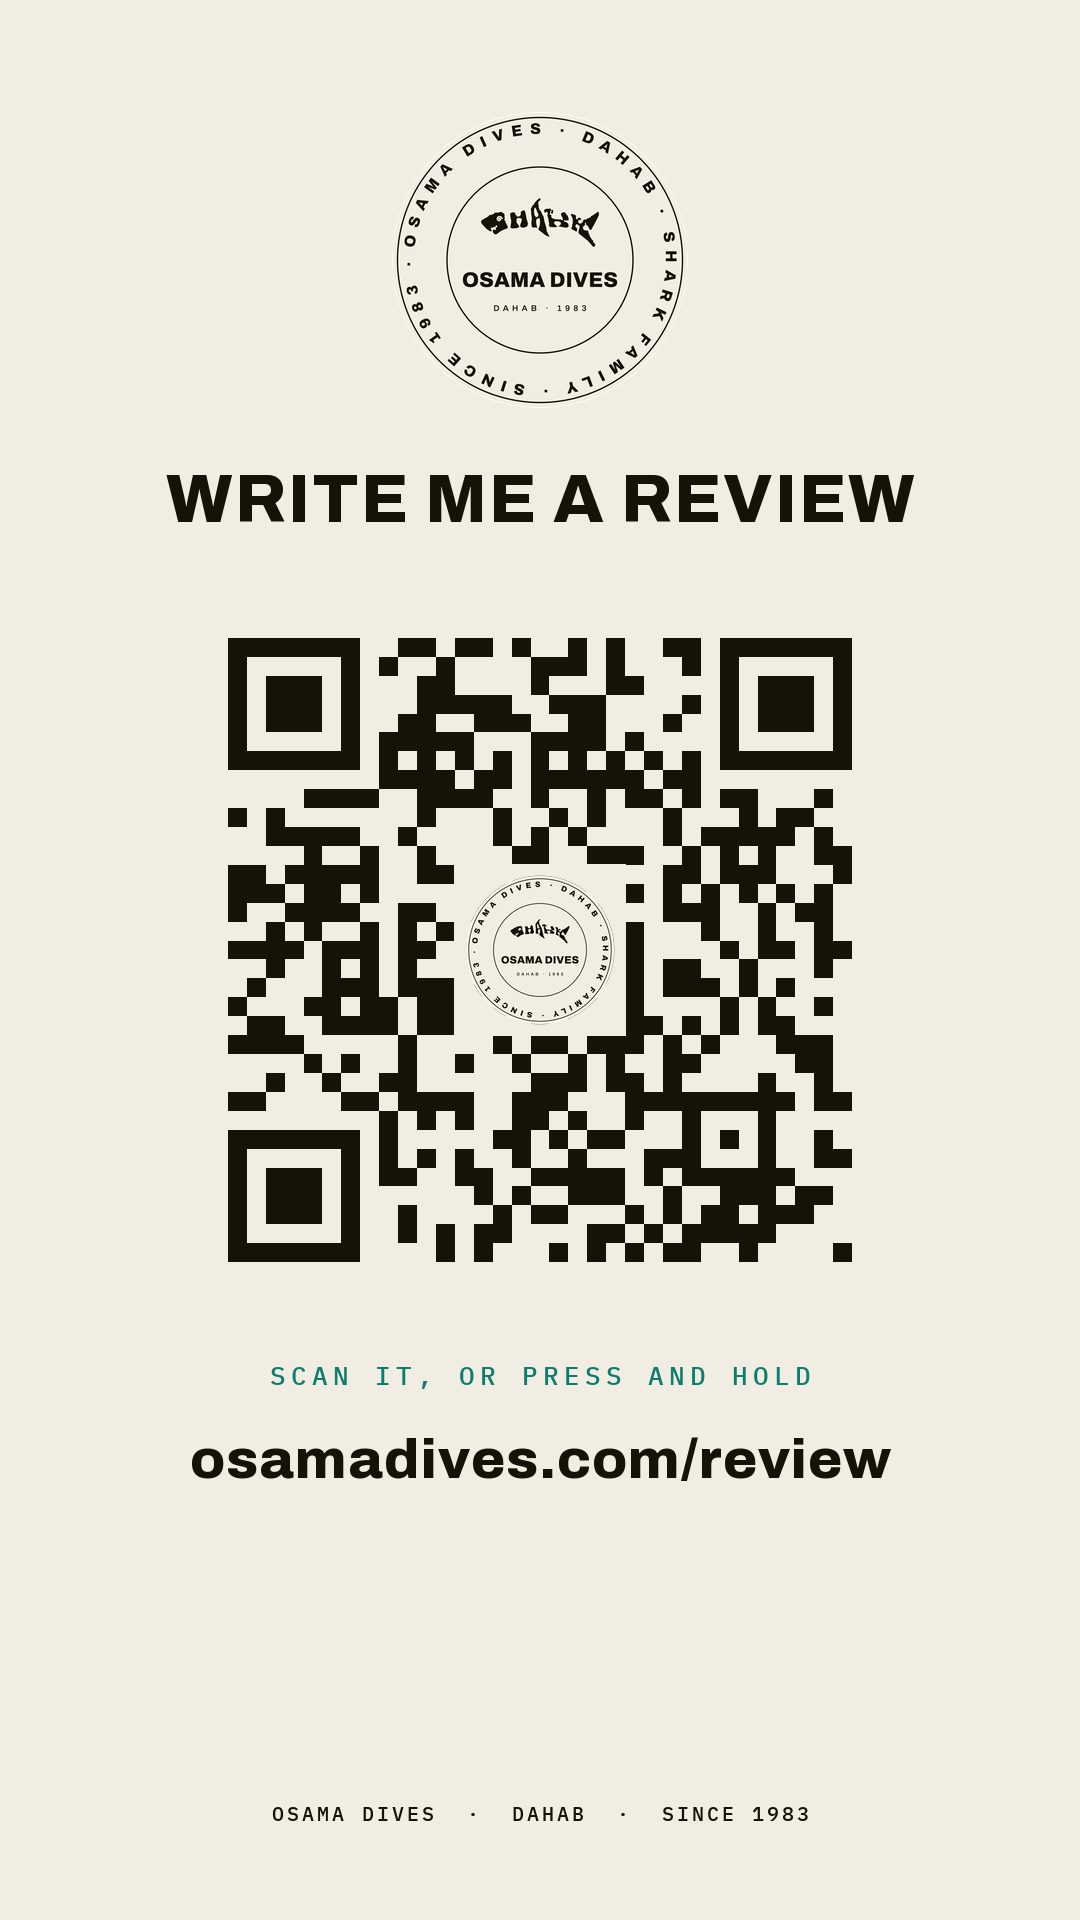
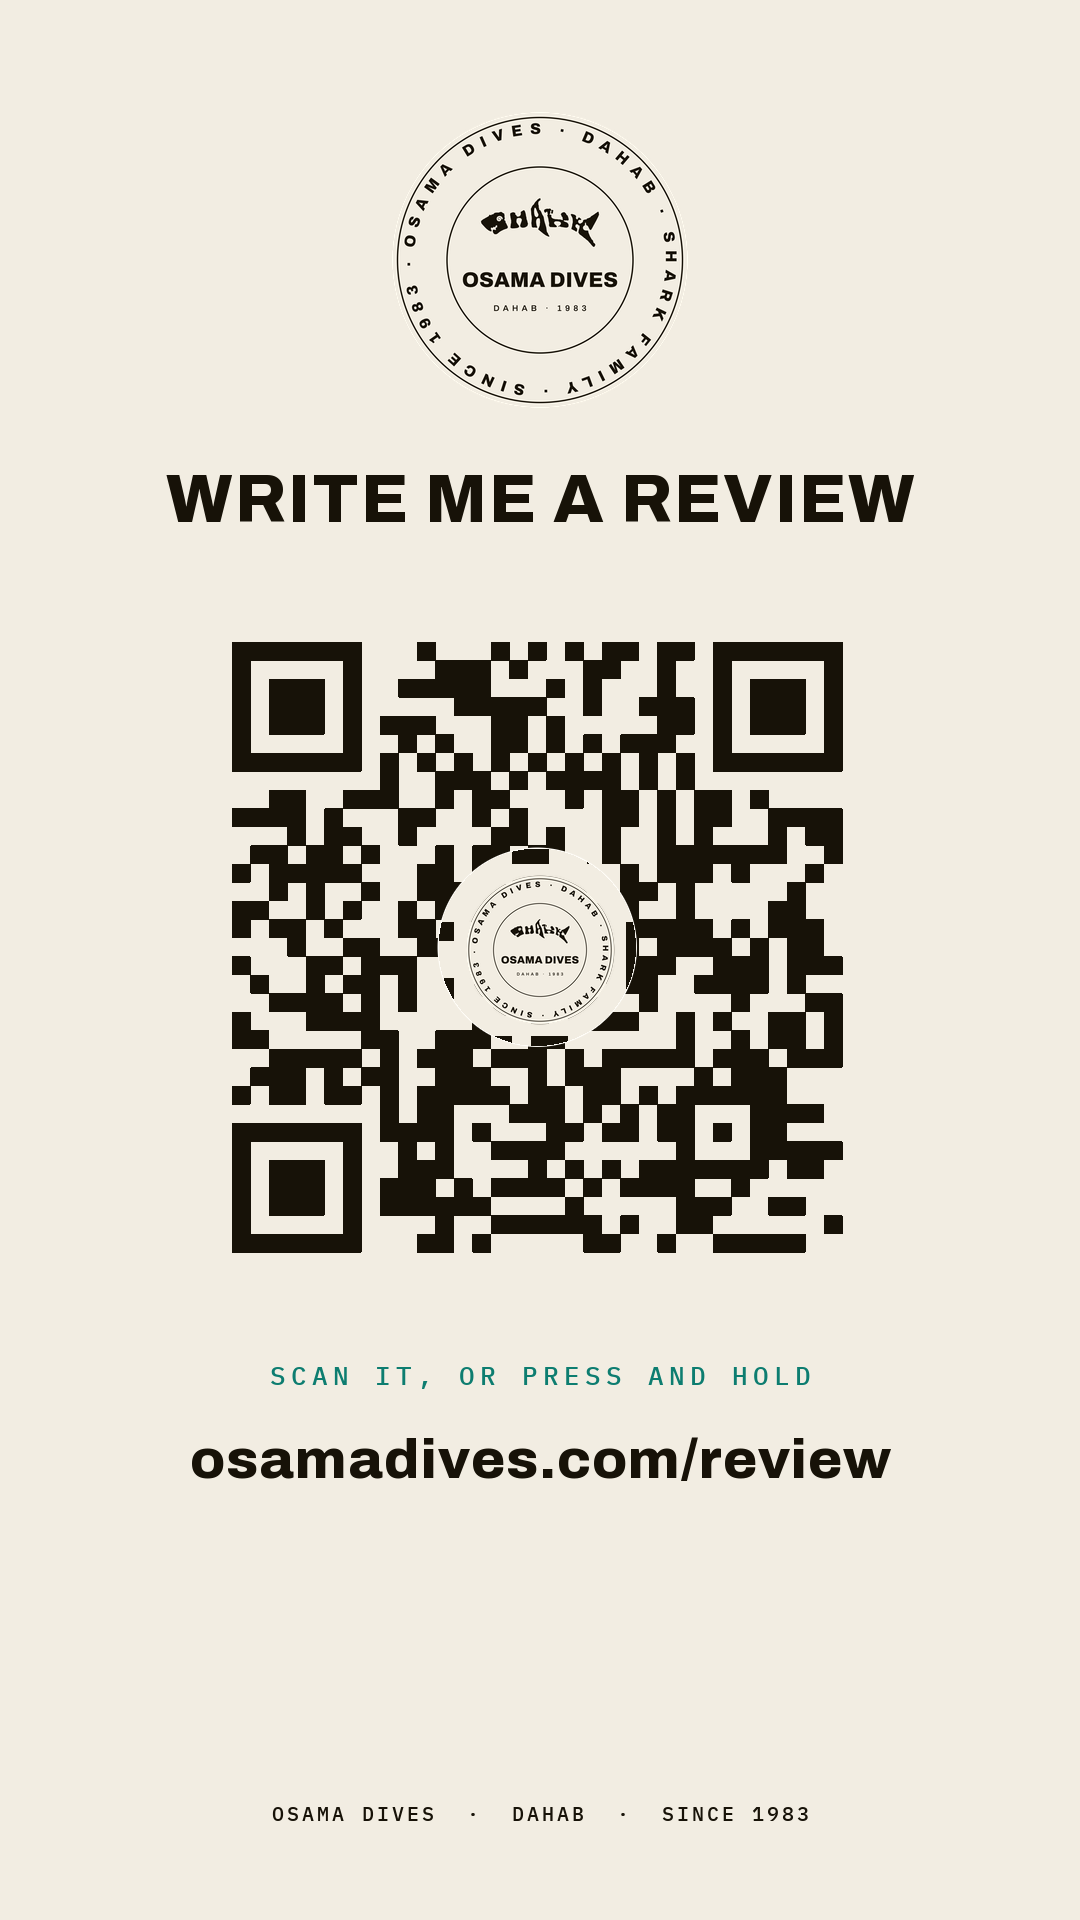
The card's code is counted: every scan lands on /qr, is recorded, then goes on to the form (#42)
The code on Osama's card pointed straight at the review page, so nobody could tell
whether it was ever scanned. It now points at /qr, which writes one row per scan
(time, source, device, hashed address) and sends the person on to the form with
utm tags, so Vercel Analytics sees them too. Link checkers (HEAD) and chat preview
bots are sent on without being counted.

The private moderation page says how many times the card has been scanned, this
week, in the last day, and when the last one was, naming the sources once there is
more than one (card, taps on the screen, stickers).

The code is regenerated for the tracked address and repainted inside the three
finished card pictures, module by module, keeping the stamp disc. All three
decode to the new address, also at a third of their size. The card's service
worker cache moves to v6 so installed cards pick up the new picture.

Changed region(s): [[0.2139, 0.3125, 0.7944, 0.6562]]

diff --git a/src/app/card/qr.ts b/src/app/card/qr.ts
@@ -1,5 +1,6 @@
-// Generated from the live review address. The code is inline SVG so Osama's card
-// still draws when he is on a boat with no signal.
-export const QR_URL = "https://www.osamadives.com/review";
+// Generated from the tracked address: every scan is counted at /qr, then sent on to the
+// review form. The code is inline SVG so Osama's card still draws when he is on a boat with
+// no signal. Regenerate with the script in the launch pack if the address ever changes.
+export const QR_URL = "https://www.osamadives.com/qr";
 export const QR_MODULES = 37;
-export const QR_PATH = "M2 2h7v1h-7zM11 2h2v1h-2zM14 2h2v1h-2zM17 2h1v1h-1zM20 2h1v1h-1zM22 2h1v1h-1zM25 2h2v1h-2zM28 2h7v1h-7zM2 3h1v1h-1zM8 3h1v1h-1zM10 3h1v1h-1zM13 3h1v1h-1zM18 3h3v1h-3zM22 3h1v1h-1zM26 3h1v1h-1zM28 3h1v1h-1zM34 3h1v1h-1zM2 4h1v1h-1zM4 4h3v1h-3zM8 4h1v1h-1zM12 4h2v1h-2zM18 4h1v1h-1zM22 4h2v1h-2zM28 4h1v1h-1zM30 4h3v1h-3zM34 4h1v1h-1zM2 5h1v1h-1zM4 5h3v1h-3zM8 5h1v1h-1zM12 5h5v1h-5zM19 5h3v1h-3zM26 5h1v1h-1zM28 5h1v1h-1zM30 5h3v1h-3zM34 5h1v1h-1zM2 6h1v1h-1zM4 6h3v1h-3zM8 6h1v1h-1zM11 6h2v1h-2zM15 6h3v1h-3zM20 6h2v1h-2zM25 6h1v1h-1zM28 6h1v1h-1zM30 6h3v1h-3zM34 6h1v1h-1zM2 7h1v1h-1zM8 7h1v1h-1zM10 7h5v1h-5zM18 7h4v1h-4zM23 7h1v1h-1zM28 7h1v1h-1zM34 7h1v1h-1zM2 8h7v1h-7zM10 8h1v1h-1zM12 8h1v1h-1zM14 8h1v1h-1zM16 8h1v1h-1zM18 8h1v1h-1zM20 8h1v1h-1zM22 8h1v1h-1zM24 8h1v1h-1zM26 8h1v1h-1zM28 8h7v1h-7zM10 9h4v1h-4zM15 9h2v1h-2zM18 9h6v1h-6zM25 9h2v1h-2zM6 10h4v1h-4zM12 10h4v1h-4zM18 10h1v1h-1zM21 10h1v1h-1zM23 10h2v1h-2zM26 10h1v1h-1zM28 10h2v1h-2zM33 10h1v1h-1zM2 11h1v1h-1zM4 11h1v1h-1zM12 11h1v1h-1zM16 11h1v1h-1zM19 11h1v1h-1zM21 11h1v1h-1zM25 11h1v1h-1zM29 11h1v1h-1zM31 11h2v1h-2zM4 12h5v1h-5zM11 12h1v1h-1zM16 12h1v1h-1zM18 12h1v1h-1zM20 12h1v1h-1zM25 12h1v1h-1zM27 12h5v1h-5zM33 12h1v1h-1zM6 13h1v1h-1zM9 13h1v1h-1zM12 13h1v1h-1zM17 13h2v1h-2zM21 13h3v1h-3zM26 13h1v1h-1zM28 13h1v1h-1zM30 13h1v1h-1zM33 13h2v1h-2zM2 14h2v1h-2zM5 14h5v1h-5zM12 14h2v1h-2zM15 14h1v1h-1zM17 14h6v1h-6zM25 14h2v1h-2zM28 14h3v1h-3zM34 14h1v1h-1zM2 15h3v1h-3zM6 15h2v1h-2zM9 15h1v1h-1zM15 15h3v1h-3zM20 15h1v1h-1zM23 15h1v1h-1zM25 15h1v1h-1zM27 15h1v1h-1zM29 15h1v1h-1zM31 15h1v1h-1zM33 15h1v1h-1zM2 16h1v1h-1zM5 16h4v1h-4zM11 16h2v1h-2zM14 16h3v1h-3zM18 16h2v1h-2zM21 16h2v1h-2zM25 16h3v1h-3zM30 16h1v1h-1zM32 16h2v1h-2zM4 17h1v1h-1zM6 17h1v1h-1zM9 17h1v1h-1zM11 17h1v1h-1zM13 17h1v1h-1zM16 17h1v1h-1zM21 17h3v1h-3zM27 17h1v1h-1zM30 17h1v1h-1zM33 17h1v1h-1zM2 18h4v1h-4zM7 18h3v1h-3zM11 18h2v1h-2zM18 18h1v1h-1zM20 18h4v1h-4zM28 18h1v1h-1zM30 18h2v1h-2zM33 18h2v1h-2zM4 19h1v1h-1zM7 19h1v1h-1zM9 19h1v1h-1zM11 19h1v1h-1zM17 19h4v1h-4zM22 19h2v1h-2zM25 19h2v1h-2zM29 19h1v1h-1zM33 19h1v1h-1zM3 20h1v1h-1zM7 20h3v1h-3zM11 20h3v1h-3zM15 20h4v1h-4zM20 20h1v1h-1zM22 20h2v1h-2zM25 20h3v1h-3zM29 20h1v1h-1zM31 20h1v1h-1zM2 21h1v1h-1zM6 21h2v1h-2zM9 21h2v1h-2zM12 21h2v1h-2zM16 21h1v1h-1zM18 21h6v1h-6zM28 21h1v1h-1zM30 21h1v1h-1zM33 21h1v1h-1zM3 22h2v1h-2zM7 22h4v1h-4zM12 22h4v1h-4zM18 22h1v1h-1zM20 22h1v1h-1zM23 22h2v1h-2zM26 22h1v1h-1zM28 22h1v1h-1zM30 22h2v1h-2zM2 23h4v1h-4zM11 23h1v1h-1zM16 23h1v1h-1zM18 23h2v1h-2zM21 23h3v1h-3zM25 23h1v1h-1zM27 23h1v1h-1zM31 23h3v1h-3zM6 24h1v1h-1zM8 24h1v1h-1zM11 24h1v1h-1zM14 24h1v1h-1zM17 24h1v1h-1zM20 24h1v1h-1zM22 24h1v1h-1zM25 24h2v1h-2zM32 24h2v1h-2zM4 25h1v1h-1zM7 25h1v1h-1zM10 25h2v1h-2zM18 25h3v1h-3zM22 25h2v1h-2zM25 25h1v1h-1zM30 25h1v1h-1zM33 25h1v1h-1zM2 26h2v1h-2zM8 26h2v1h-2zM11 26h4v1h-4zM17 26h3v1h-3zM23 26h9v1h-9zM33 26h2v1h-2zM10 27h1v1h-1zM12 27h1v1h-1zM14 27h1v1h-1zM17 27h2v1h-2zM20 27h1v1h-1zM23 27h1v1h-1zM26 27h1v1h-1zM30 27h1v1h-1zM2 28h7v1h-7zM10 28h1v1h-1zM16 28h2v1h-2zM19 28h1v1h-1zM21 28h2v1h-2zM26 28h1v1h-1zM28 28h1v1h-1zM30 28h1v1h-1zM33 28h1v1h-1zM2 29h1v1h-1zM8 29h1v1h-1zM10 29h1v1h-1zM12 29h1v1h-1zM14 29h1v1h-1zM17 29h1v1h-1zM20 29h1v1h-1zM24 29h3v1h-3zM30 29h1v1h-1zM33 29h2v1h-2zM2 30h1v1h-1zM4 30h3v1h-3zM8 30h1v1h-1zM10 30h2v1h-2zM14 30h2v1h-2zM18 30h5v1h-5zM24 30h1v1h-1zM26 30h6v1h-6zM2 31h1v1h-1zM4 31h3v1h-3zM8 31h1v1h-1zM15 31h1v1h-1zM17 31h1v1h-1zM20 31h3v1h-3zM25 31h1v1h-1zM28 31h3v1h-3zM32 31h2v1h-2zM2 32h1v1h-1zM4 32h3v1h-3zM8 32h1v1h-1zM11 32h1v1h-1zM16 32h1v1h-1zM18 32h2v1h-2zM23 32h1v1h-1zM25 32h1v1h-1zM27 32h2v1h-2zM30 32h3v1h-3zM2 33h1v1h-1zM8 33h1v1h-1zM11 33h1v1h-1zM13 33h1v1h-1zM15 33h2v1h-2zM21 33h2v1h-2zM24 33h1v1h-1zM26 33h5v1h-5zM2 34h7v1h-7zM13 34h1v1h-1zM15 34h1v1h-1zM19 34h1v1h-1zM21 34h1v1h-1zM23 34h1v1h-1zM25 34h2v1h-2zM29 34h1v1h-1zM34 34h1v1h-1z";
+export const QR_PATH = "M2 2h7v1h-7zM12 2h1v1h-1zM16 2h1v1h-1zM18 2h1v1h-1zM20 2h1v1h-1zM22 2h2v1h-2zM25 2h2v1h-2zM28 2h7v1h-7zM2 3h1v1h-1zM8 3h1v1h-1zM13 3h3v1h-3zM17 3h1v1h-1zM21 3h2v1h-2zM25 3h1v1h-1zM28 3h1v1h-1zM34 3h1v1h-1zM2 4h1v1h-1zM4 4h3v1h-3zM8 4h1v1h-1zM11 4h5v1h-5zM19 4h1v1h-1zM21 4h1v1h-1zM25 4h1v1h-1zM28 4h1v1h-1zM30 4h3v1h-3zM34 4h1v1h-1zM2 5h1v1h-1zM4 5h3v1h-3zM8 5h1v1h-1zM14 5h5v1h-5zM21 5h1v1h-1zM24 5h3v1h-3zM28 5h1v1h-1zM30 5h3v1h-3zM34 5h1v1h-1zM2 6h1v1h-1zM4 6h3v1h-3zM8 6h1v1h-1zM10 6h3v1h-3zM16 6h2v1h-2zM19 6h1v1h-1zM25 6h2v1h-2zM28 6h1v1h-1zM30 6h3v1h-3zM34 6h1v1h-1zM2 7h1v1h-1zM8 7h1v1h-1zM11 7h1v1h-1zM13 7h1v1h-1zM16 7h2v1h-2zM19 7h1v1h-1zM21 7h1v1h-1zM23 7h3v1h-3zM28 7h1v1h-1zM34 7h1v1h-1zM2 8h7v1h-7zM10 8h1v1h-1zM12 8h1v1h-1zM14 8h1v1h-1zM16 8h1v1h-1zM18 8h1v1h-1zM20 8h1v1h-1zM22 8h1v1h-1zM24 8h1v1h-1zM26 8h1v1h-1zM28 8h7v1h-7zM10 9h1v1h-1zM13 9h3v1h-3zM17 9h1v1h-1zM19 9h4v1h-4zM24 9h1v1h-1zM26 9h1v1h-1zM4 10h2v1h-2zM8 10h3v1h-3zM13 10h1v1h-1zM15 10h2v1h-2zM20 10h1v1h-1zM22 10h2v1h-2zM25 10h1v1h-1zM27 10h2v1h-2zM30 10h1v1h-1zM2 11h4v1h-4zM7 11h1v1h-1zM11 11h2v1h-2zM15 11h1v1h-1zM17 11h1v1h-1zM22 11h2v1h-2zM25 11h1v1h-1zM27 11h2v1h-2zM31 11h4v1h-4zM5 12h1v1h-1zM7 12h2v1h-2zM11 12h1v1h-1zM16 12h2v1h-2zM19 12h1v1h-1zM22 12h1v1h-1zM25 12h1v1h-1zM27 12h1v1h-1zM31 12h1v1h-1zM33 12h2v1h-2zM3 13h2v1h-2zM6 13h2v1h-2zM9 13h1v1h-1zM13 13h1v1h-1zM15 13h2v1h-2zM18 13h2v1h-2zM22 13h1v1h-1zM25 13h7v1h-7zM34 13h1v1h-1zM2 14h1v1h-1zM4 14h5v1h-5zM12 14h2v1h-2zM15 14h1v1h-1zM18 14h3v1h-3zM23 14h1v1h-1zM25 14h3v1h-3zM29 14h1v1h-1zM33 14h1v1h-1zM4 15h1v1h-1zM6 15h1v1h-1zM9 15h1v1h-1zM12 15h6v1h-6zM21 15h1v1h-1zM23 15h2v1h-2zM26 15h1v1h-1zM32 15h1v1h-1zM2 16h2v1h-2zM6 16h1v1h-1zM8 16h1v1h-1zM11 16h1v1h-1zM13 16h2v1h-2zM17 16h2v1h-2zM22 16h2v1h-2zM26 16h1v1h-1zM31 16h2v1h-2zM2 17h1v1h-1zM4 17h2v1h-2zM7 17h1v1h-1zM11 17h2v1h-2zM14 17h2v1h-2zM18 17h2v1h-2zM21 17h7v1h-7zM29 17h1v1h-1zM31 17h3v1h-3zM5 18h1v1h-1zM8 18h2v1h-2zM12 18h4v1h-4zM18 18h1v1h-1zM23 18h1v1h-1zM25 18h4v1h-4zM30 18h1v1h-1zM32 18h2v1h-2zM2 19h1v1h-1zM6 19h2v1h-2zM9 19h3v1h-3zM16 19h1v1h-1zM19 19h1v1h-1zM21 19h5v1h-5zM28 19h3v1h-3zM32 19h3v1h-3zM3 20h1v1h-1zM6 20h1v1h-1zM8 20h2v1h-2zM11 20h1v1h-1zM15 20h5v1h-5zM21 20h1v1h-1zM23 20h2v1h-2zM27 20h4v1h-4zM32 20h1v1h-1zM4 21h4v1h-4zM9 21h1v1h-1zM11 21h1v1h-1zM17 21h1v1h-1zM19 21h2v1h-2zM24 21h1v1h-1zM29 21h1v1h-1zM33 21h2v1h-2zM2 22h1v1h-1zM6 22h4v1h-4zM15 22h2v1h-2zM21 22h3v1h-3zM26 22h1v1h-1zM28 22h1v1h-1zM31 22h2v1h-2zM34 22h1v1h-1zM2 23h2v1h-2zM9 23h2v1h-2zM13 23h3v1h-3zM18 23h2v1h-2zM26 23h1v1h-1zM29 23h1v1h-1zM31 23h2v1h-2zM34 23h1v1h-1zM4 24h5v1h-5zM10 24h1v1h-1zM12 24h3v1h-3zM16 24h3v1h-3zM20 24h1v1h-1zM22 24h5v1h-5zM28 24h3v1h-3zM32 24h3v1h-3zM3 25h3v1h-3zM7 25h1v1h-1zM9 25h2v1h-2zM13 25h3v1h-3zM18 25h1v1h-1zM20 25h3v1h-3zM27 25h1v1h-1zM29 25h3v1h-3zM2 26h1v1h-1zM4 26h2v1h-2zM7 26h2v1h-2zM10 26h1v1h-1zM12 26h5v1h-5zM18 26h2v1h-2zM21 26h2v1h-2zM24 26h1v1h-1zM26 26h6v1h-6zM10 27h1v1h-1zM12 27h2v1h-2zM17 27h3v1h-3zM21 27h1v1h-1zM23 27h1v1h-1zM25 27h2v1h-2zM30 27h4v1h-4zM2 28h7v1h-7zM10 28h4v1h-4zM15 28h1v1h-1zM19 28h2v1h-2zM22 28h2v1h-2zM25 28h2v1h-2zM28 28h1v1h-1zM30 28h2v1h-2zM2 29h1v1h-1zM8 29h1v1h-1zM11 29h1v1h-1zM13 29h1v1h-1zM16 29h4v1h-4zM26 29h1v1h-1zM30 29h5v1h-5zM2 30h1v1h-1zM4 30h3v1h-3zM8 30h1v1h-1zM11 30h3v1h-3zM18 30h1v1h-1zM20 30h1v1h-1zM22 30h1v1h-1zM24 30h7v1h-7zM32 30h2v1h-2zM2 31h1v1h-1zM4 31h3v1h-3zM8 31h1v1h-1zM10 31h3v1h-3zM14 31h1v1h-1zM16 31h4v1h-4zM21 31h1v1h-1zM23 31h4v1h-4zM29 31h1v1h-1zM2 32h1v1h-1zM4 32h3v1h-3zM8 32h1v1h-1zM10 32h6v1h-6zM20 32h1v1h-1zM26 32h3v1h-3zM31 32h2v1h-2zM2 33h1v1h-1zM8 33h1v1h-1zM13 33h1v1h-1zM16 33h6v1h-6zM23 33h1v1h-1zM26 33h2v1h-2zM34 33h1v1h-1zM2 34h7v1h-7zM12 34h2v1h-2zM15 34h1v1h-1zM21 34h2v1h-2zM25 34h1v1h-1zM28 34h5v1h-5z";

diff --git a/src/lib/logbook/store.ts b/src/lib/logbook/store.ts
@@ -1,6 +1,6 @@
 import { promises as fs } from "node:fs";
 import path from "node:path";
-import type { EntryPatch, EntryStatus, LogbookEntry, ModeratedBy, StampKey } from "./types";
+import type { EntryPatch, EntryStatus, LogbookEntry, ModeratedBy, QrScan, ScanStats, StampKey } from "./types";
 
 export interface ListOptions {
   status?: EntryStatus;
@@ -26,6 +26,29 @@ export interface LogbookStore {
   reactionsBy(ids: string[], deviceId: string): Promise<Record<string, string[]>>;
   /** Resolves true when the reaction is now on, false when it was taken back. */
   toggleReaction(entryId: string, emoji: string, deviceId: string, createdAt: string): Promise<boolean>;
+
+  // Scans of the QR code: one row per scan, so Osama can see the card working.
+  recordScan(scan: QrScan): Promise<void>;
+  scanStats(nowIso: string): Promise<ScanStats>;
+}
+
+function statsFrom(rows: { createdAt: string; source: string }[], nowIso: string): ScanStats {
+  const now = new Date(nowIso).getTime();
+  const weekAgo = new Date(now - 7 * 86_400_000).toISOString();
+  const dayAgo = new Date(now - 86_400_000).toISOString();
+  const bySource: Record<string, number> = {};
+  let last: string | null = null;
+  for (const r of rows) {
+    bySource[r.source] = (bySource[r.source] ?? 0) + 1;
+    if (!last || r.createdAt > last) last = r.createdAt;
+  }
+  return {
+    total: rows.length,
+    week: rows.filter((r) => r.createdAt >= weekAgo).length,
+    today: rows.filter((r) => r.createdAt >= dayAgo).length,
+    last,
+    bySource,
+  };
 }
 
 interface ReactionRow { entryId: string; emoji: string; deviceId: string; createdAt: string }
@@ -187,6 +210,18 @@ export class FileStore implements LogbookStore {
       return i < 0;
     });
   }
+
+  recordScan(scan: QrScan) {
+    return this.locked(async () => {
+      const all = await this.readJson<QrScan>(this.sibling("scans.json"));
+      all.push(scan);
+      await this.writeJson(this.sibling("scans.json"), all);
+    });
+  }
+
+  async scanStats(nowIso: string) {
+    return statsFrom(await this.readJson<QrScan>(this.sibling("scans.json")), nowIso);
+  }
 }
 
 // ---------------------------------------------------------------------------
@@ -266,6 +301,13 @@ export class NeonStore implements LogbookStore {
         // Who approved: 'link' (the signed link in the phone notification) or 'admin' (the password page).
         await sql`ALTER TABLE logbook_entries ADD COLUMN IF NOT EXISTS moderated_by text NOT NULL DEFAULT ''`;
         // Reactions came later. One reaction per (review, emoji, device).
+        await sql`CREATE TABLE IF NOT EXISTS qr_scans (
+          id text PRIMARY KEY,
+          created_at timestamptz NOT NULL,
+          source text NOT NULL DEFAULT 'card',
+          ua text NOT NULL DEFAULT '',
+          ip_hash text NOT NULL DEFAULT ''
+        )`;
         await sql`CREATE TABLE IF NOT EXISTS logbook_reactions (
           entry_id text NOT NULL,
           emoji text NOT NULL,
@@ -373,6 +415,17 @@ export class NeonStore implements LogbookStore {
     if (added.length) return true;
     await sql`DELETE FROM logbook_reactions WHERE entry_id = ${entryId} AND emoji = ${emoji} AND device_id = ${deviceId}`;
     return false;
+  }
+
+  async recordScan(scan: QrScan) {
+    const sql = await this.db();
+    await sql`INSERT INTO qr_scans (id, created_at, source, ua, ip_hash) VALUES (${scan.id}, ${scan.createdAt}, ${scan.source}, ${scan.ua}, ${scan.ipHash})`;
+  }
+
+  async scanStats(nowIso: string) {
+    const sql = await this.db();
+    const rows = (await sql`SELECT created_at, source FROM qr_scans`) as { created_at: string; source: string }[];
+    return statsFrom(rows.map((r) => ({ createdAt: new Date(r.created_at).toISOString(), source: r.source })), nowIso);
   }
 }
 

diff --git a/src/app/logbook/admin/page.tsx b/src/app/logbook/admin/page.tsx
@@ -33,6 +33,26 @@ function whenExact(iso: string) {
   return new Date(iso).toLocaleString("en-GB", { timeZone: "Africa/Cairo", day: "2-digit", month: "short", hour: "2-digit", minute: "2-digit" }) + " Dahab time";
 }
 
+// "just now", "3 hours ago", "2 days ago"
+function ago(iso: string | null): string {
+  if (!iso) return "never";
+  const mins = Math.round((Date.now() - new Date(iso).getTime()) / 60000);
+  if (mins < 2) return "just now";
+  if (mins < 60) return `${mins} minutes ago`;
+  const hours = Math.round(mins / 60);
+  if (hours < 24) return `${hours} ${hours === 1 ? "hour" : "hours"} ago`;
+  const days = Math.round(hours / 24);
+  return `${days} ${days === 1 ? "day" : "days"} ago`;
+}
+
+// " (card 11, taps on the screen 3)" once scans come from more than one place
+const SOURCE_LABEL: Record<string, string> = { card: "card", tap: "taps on the screen", sticker: "stickers", table: "table cards" };
+function sourcesNote(bySource: Record<string, number>): string {
+  const parts = Object.entries(bySource).sort((a, b) => b[1] - a[1]);
+  if (parts.length < 2) return "";
+  return ` (${parts.map(([k, n]) => `${SOURCE_LABEL[k] ?? k} ${n}`).join(", ")})`;
+}
+
 function when(e: LogbookEntry) {
   return new Date(e.createdAt).toLocaleDateString("en-GB", { day: "2-digit", month: "short", year: "numeric" });
 }
@@ -53,7 +73,7 @@ export default async function AdminPage({
   if (!key) return <SignIn wrong={searchParams.wrong === "1"} />;
 
   const store = getStore({ fresh: true });
-  const entries = await store.list();
+  const [entries, scans] = await Promise.all([store.list(), store.scanStats(new Date().toISOString()).catch(() => null)]);
   const base = siteUrl();
   const card = (e: LogbookEntry, print: boolean) =>
     `${base}/api/logbook/${e.id}/card?t=${signToken("share", e.id, TTL.share)}${print ? "&format=print" : ""}`;
@@ -181,6 +201,13 @@ export default async function AdminPage({
           <p className="lb-stand lb-hero__stand">
             {live.length} on the site, {hidden.length} hidden. Deleting is permanent; hiding can be undone.
           </p>
+          {scans ? (
+            <p className="lb-stand lb-hero__stand" style={{ marginTop: "0.4rem" }}>
+              {scans.total === 0
+                ? "Your card has not been scanned yet."
+                : `Your card has been scanned ${scans.total} ${scans.total === 1 ? "time" : "times"}${sourcesNote(scans.bySource)}: ${scans.week} this week, ${scans.today} in the last day, the last one ${ago(scans.last)}.`}
+            </p>
+          ) : null}
         </div>
       </section>
 

diff --git a/src/app/qr/route.ts b/src/app/qr/route.ts
@@ -1,0 +1,46 @@
+import { NextResponse } from "next/server";
+import { newId } from "@/lib/logbook/ids";
+import { clientIp, hashIp } from "@/lib/logbook/ratelimit";
+import { getStore } from "@/lib/logbook/store";
+
+export const runtime = "nodejs";
+export const dynamic = "force-dynamic";
+
+// The address printed in the QR code. Every scan lands here, is counted, and is sent on to
+// the review form. Because the code points here and not at the form, where it leads can be
+// changed later without reprinting anything. ?s= names the source (card, sticker, table).
+// Link previews and crawlers fetch a pasted link too; those are not people with a phone.
+const BOT = /bot|crawl|spider|preview|facebookexternalhit|whatsapp|telegram|slack|discord|twitter|linkedin|curl|wget|python|http\.rb/i;
+
+function sourceOf(url: URL) {
+  return (url.searchParams.get("s") || "card").replace(/[^a-z0-9-]/gi, "").slice(0, 24) || "card";
+}
+
+function onward(url: URL, source: string) {
+  const to = new URL("/review", url.origin);
+  to.searchParams.set("utm_source", "qr");
+  to.searchParams.set("utm_medium", source);
+  to.searchParams.set("utm_campaign", "review");
+  to.hash = "sign";
+  return NextResponse.redirect(to, { status: 307, headers: { "cache-control": "no-store" } });
+}
+
+export async function GET(req: Request) {
+  const url = new URL(req.url);
+  const source = sourceOf(url);
+  const ua = (req.headers.get("user-agent") || "").slice(0, 200);
+  if (!BOT.test(ua)) {
+    try {
+      await getStore({ fresh: true }).recordScan({ id: newId(), createdAt: new Date().toISOString(), source, ua, ipHash: hashIp(clientIp(req)) });
+    } catch (e) {
+      console.error("qr scan not recorded", e); // never keep a student from the form over a count
+    }
+  }
+  return onward(url, source);
+}
+
+// A HEAD request is a link checker or a monitor looking, not a scan. It is sent on, not counted.
+export function HEAD(req: Request) {
+  const url = new URL(req.url);
+  return onward(url, sourceOf(url));
+}

diff --git a/src/lib/logbook/store.test.ts b/src/lib/logbook/store.test.ts
@@ -91,4 +91,16 @@ describe("FileStore", () => {
     expect(await store.reactionCounts(["a"])).toEqual({ a: { "🦈": 1, "❤": 1 } });
     expect(await store.reactionsBy(["a"], "phone1")).toEqual({ a: ["❤"] });
   });
+
+  it("counts scans of the card by source and time", async () => {
+    await store.recordScan({ id: "s1", createdAt: "2026-08-20T00:00:00.000Z", source: "card", ua: "phone", ipHash: "x" });
+    await store.recordScan({ id: "s2", createdAt: "2026-09-05T20:00:00.000Z", source: "card", ua: "phone", ipHash: "y" });
+    await store.recordScan({ id: "s3", createdAt: "2026-09-06T01:00:00.000Z", source: "sticker", ua: "phone", ipHash: "z" });
+    const st = await store.scanStats("2026-09-06T02:00:00.000Z");
+    expect(st.total).toBe(3);
+    expect(st.week).toBe(2);
+    expect(st.today).toBe(2);
+    expect(st.last).toBe("2026-09-06T01:00:00.000Z");
+    expect(st.bySource).toEqual({ card: 2, sticker: 1 });
+  });
 });

diff --git a/src/app/card/CardScreen.tsx b/src/app/card/CardScreen.tsx
@@ -22,7 +22,7 @@ export default function CardScreen() {
         <img src="/brand/stamp-512.png" alt="Osama Dives, Dahab, since 1983" className="card__stamp" width={132} height={132} />
         <h1 className="card__title">Write me a review</h1>
 
-        <a className="card__code" href={QR_URL} aria-label="Open the review form">
+        <a className="card__code" href={`${QR_URL}?s=tap`} aria-label="Open the review form">
           <svg viewBox={`0 0 ${box} ${box}`} role="img" aria-label="Code for osamadives.com/review" shapeRendering="crispEdges">
             <rect width={box} height={box} fill="#FFFDF8" />
             <path d={QR_PATH} fill="#171208" />

diff --git a/src/lib/logbook/types.ts b/src/lib/logbook/types.ts
@@ -83,6 +83,23 @@ export interface EntryPatch {
 export const REACTIONS = ["👍", "❤", "😂", "👏", "🤿", "🦈", "🐢", "🐙", "🌊", "🐠"] as const;
 export type Reaction = (typeof REACTIONS)[number];
 
+// One scan of the QR code on Osama's card (or a sticker, a table card: the source names it).
+export interface QrScan {
+  id: string;
+  createdAt: string;
+  source: string;
+  ua: string;
+  ipHash: string;
+}
+
+export interface ScanStats {
+  total: number;
+  week: number;
+  today: number;
+  last: string | null;
+  bySource: Record<string, number>;
+}
+
 export const LIMITS = {
   name: { min: 2, max: 40 },
   country: { max: 40 },

diff --git a/public/card-sw.js b/public/card-sw.js
@@ -2,7 +2,7 @@
 // copy in place: the page itself is fetched fresh whenever there is signal and only
 // falls back to the cache when the network fails. Pictures are served from the cache
 // first, since they do not change.
-const CACHE = "osamadives-card-v5";
+const CACHE = "osamadives-card-v6";
 const FILES = [
   "/card",
   "/brand/stamp-512.png",
